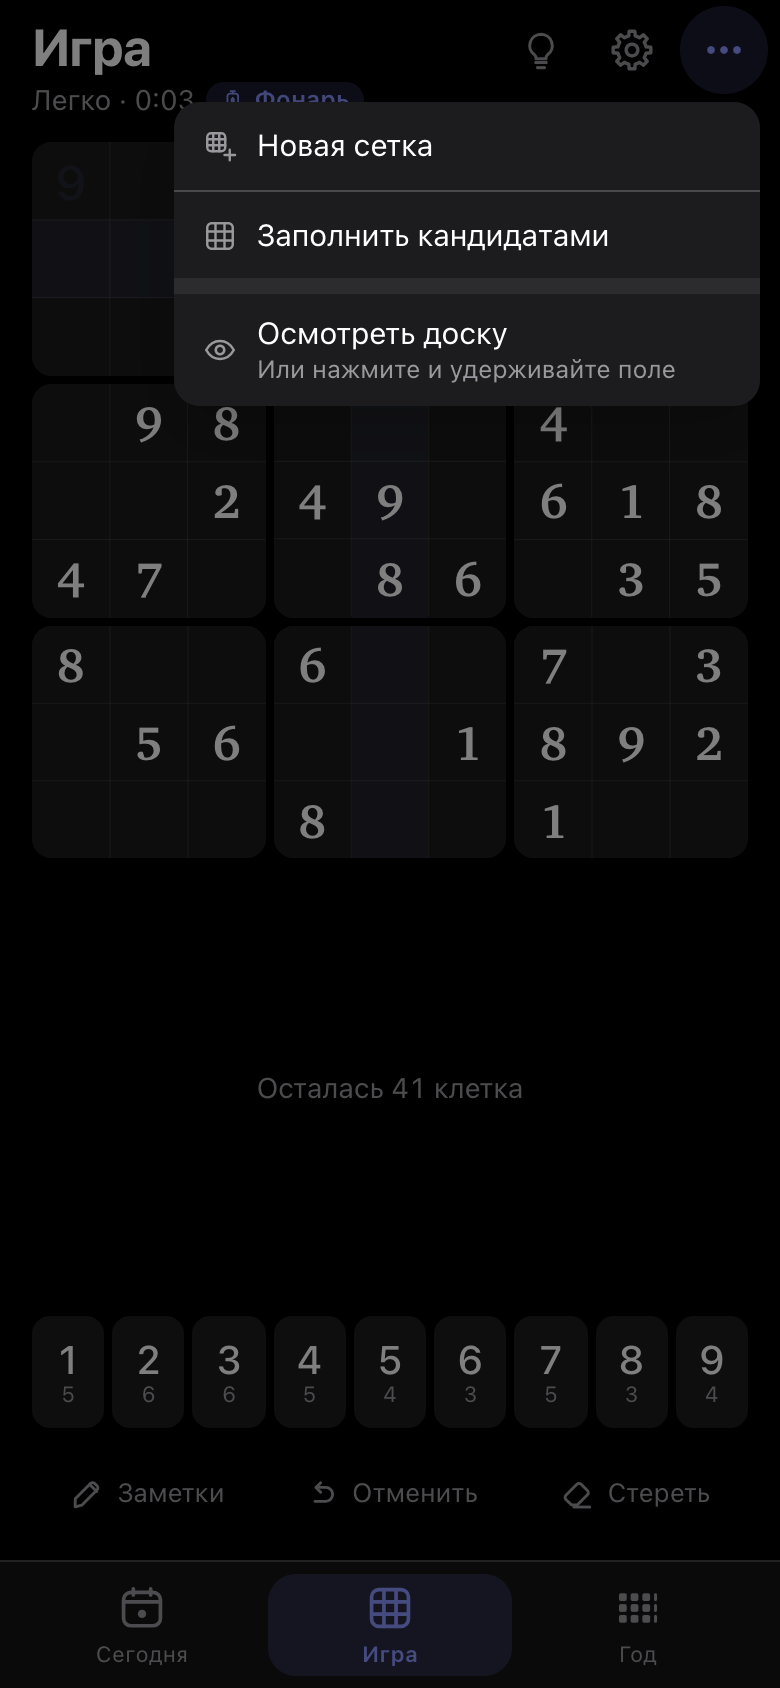
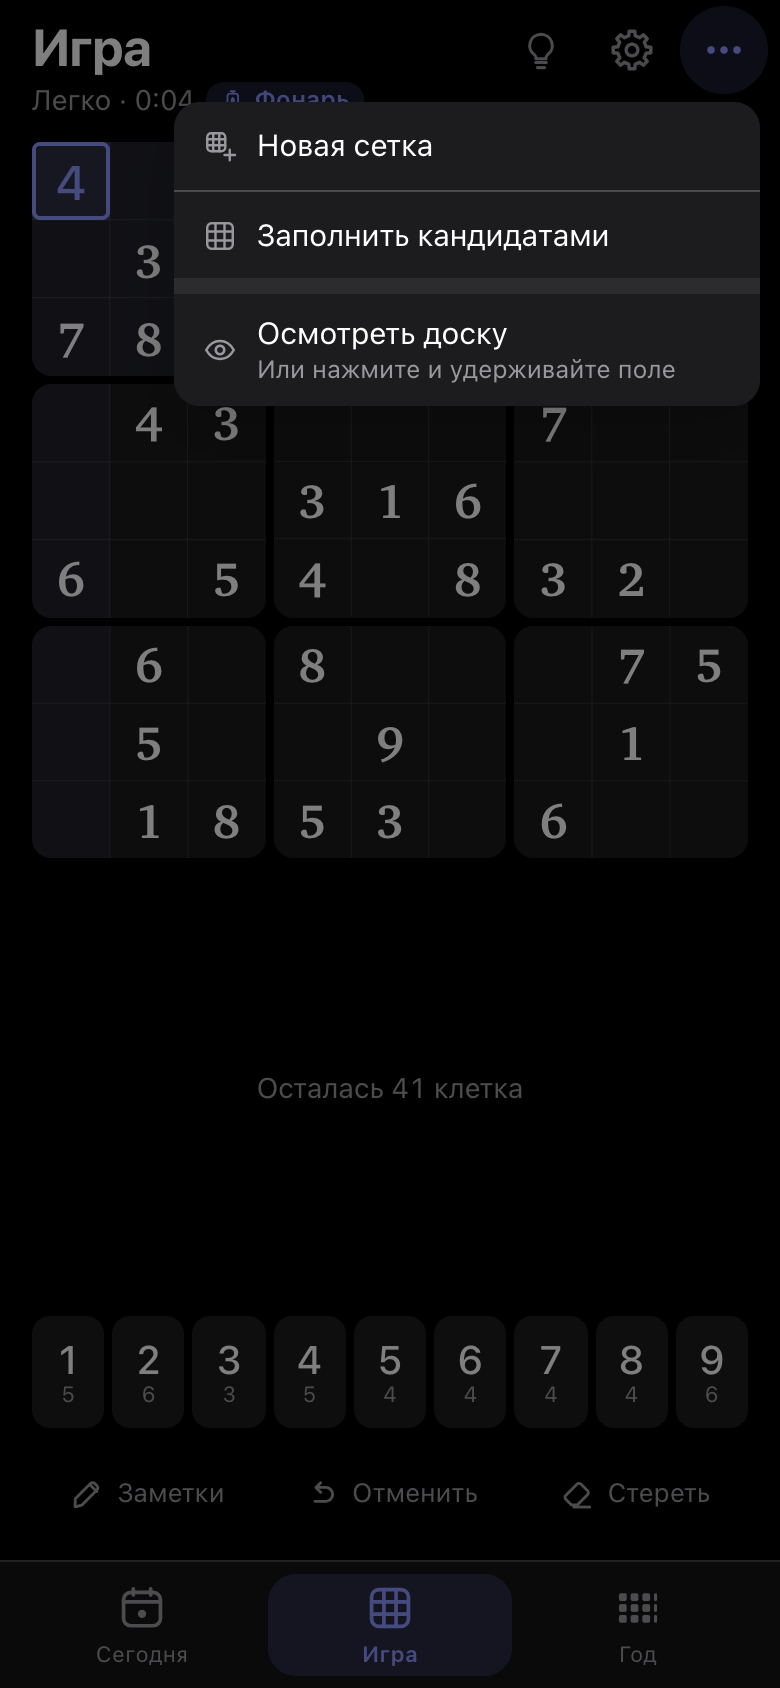
PD-208: кадры основы design/pd208-shots, README

diff --git a/apps/web/README.md b/apps/web/README.md
@@ -948,7 +948,7 @@ UI — PD-203 (раздел ниже).
 
 ## Мелодия: режим на экране (PD-203, макет `design/pd202-melody.html`, решения владельца 2026-10-05)
 
-- **Хаб:** строка «♪ Мелодия» (`ready: true`) в фиксированном порядке PD-163: Классика, Чернила, Лжец, Мелодия, (Фонарь), Глифы;
+- **Хаб:** строка «♪ Мелодия» (`ready: true`) в фиксированном порядке PD-163: Классика, Чернила, Лжец, Мелодия, Фонарь, Глифы;
   шит сложности и «Продолжить» — общие (как у Глифов).
 - **Партия (вариант C) — `src/melody/game.ts` `useMelodyGame`:** ядро звука создаётся ТОЛЬКО пока на экране идёт партия
   Мелодии (в Классике и прочих режимах ядра и `AudioContext` нет). PD-206: `AudioContext` — лениво, в `unlock` при первой
@@ -974,3 +974,22 @@ UI — PD-203 (раздел ниже).
 - **Живая проверка:** `design/pd203-check.mjs` (vite preview, настоящая генерация, шпион аудиографа в init-скрипте),
   кадры — `design/pd203-shots/`. PD-206: `design/pd206-check.mjs` (строка о звуке при xxxL/AX3 на 320/390 en/uk/ru light/dark,
   жизненный цикл контекстов партии и карточки), кадры — `design/pd206-shots/`.
+
+## Режим «Фонарь» — основа без финального визуала (PD-208, план `docs/release2-modes-plan.md` §5, решения команды 2026-10-06)
+
+- **Хаб/слот:** строка «Фонарь» (`modes.ts`, `id: "lantern"`, слот `playGame:lantern`) между Мелодией и Глифами; правило — описание
+  режима в шите (`modes.lantern.desc`, en/uk/ru). Флаг `play.lantern: true` (только `true`, прецедент `ink`/`glyphs`): слот
+  (`savedPlay.ts`), граница хранилища дня (`today/repository.ts`), `DayRecord.lantern` (`sync/schema.ts`). Не комбинируется.
+- **Свет:** `litCells(selected)` движка (строка + столбец + блок, 21 клетка). Свежая партия — без выбора (темно); возврат в партию
+  восстанавливает выбор. Вне света свои цифры и заметки в тени, подсказки видны всегда; подсветка одинаковых цифр, отметка ошибки
+  и ответ M8 — только в свете. Остатки, автозаметки, лесенка подсказок — как в Классике. Вне `playing` (загрузка, «решено»,
+  карточка, таймлапс, PNG) — поле целиком.
+- **Оформление** (`styles/lantern.css`) — только токены `--lantern-shadow-opacity`, `--lantern-shadow-notes-opacity`,
+  `--lantern-shadow-bg`, `--lantern-lit-bg`, `--lantern-ms` и классы `.board.lantern[.inspecting]`, `.cell.is-lit` / `.cell.is-shadow`.
+  Финальный вид — PD-210 по макету PD-209. Своя цифра гаснет `filter: opacity()` (анимация постановки держит `opacity: 1`).
+  Reduce Motion — переход × `--mo` (мгновенно).
+- **Осмотр доски:** удержание поля ≥ `INSPECT_HOLD_MS` (350 мс) — свет везде, пока держишь; клик отпускания глотается, выбор не
+  переезжает. Доступный путь — пункт ⋯ «Осмотреть доску» (`menuitemcheckbox`, на текущую партию).
+- **VoiceOver:** не-подсказка в тени — «Строка N, столбец M, в тени» (без цифры/заметок/«пусто»); при осмотре — обычные подписи,
+  подпись поля «…, освещена вся доска».
+- Живая проверка: `design/pd208-check.mjs` (кадры `design/pd208-shots/`).
